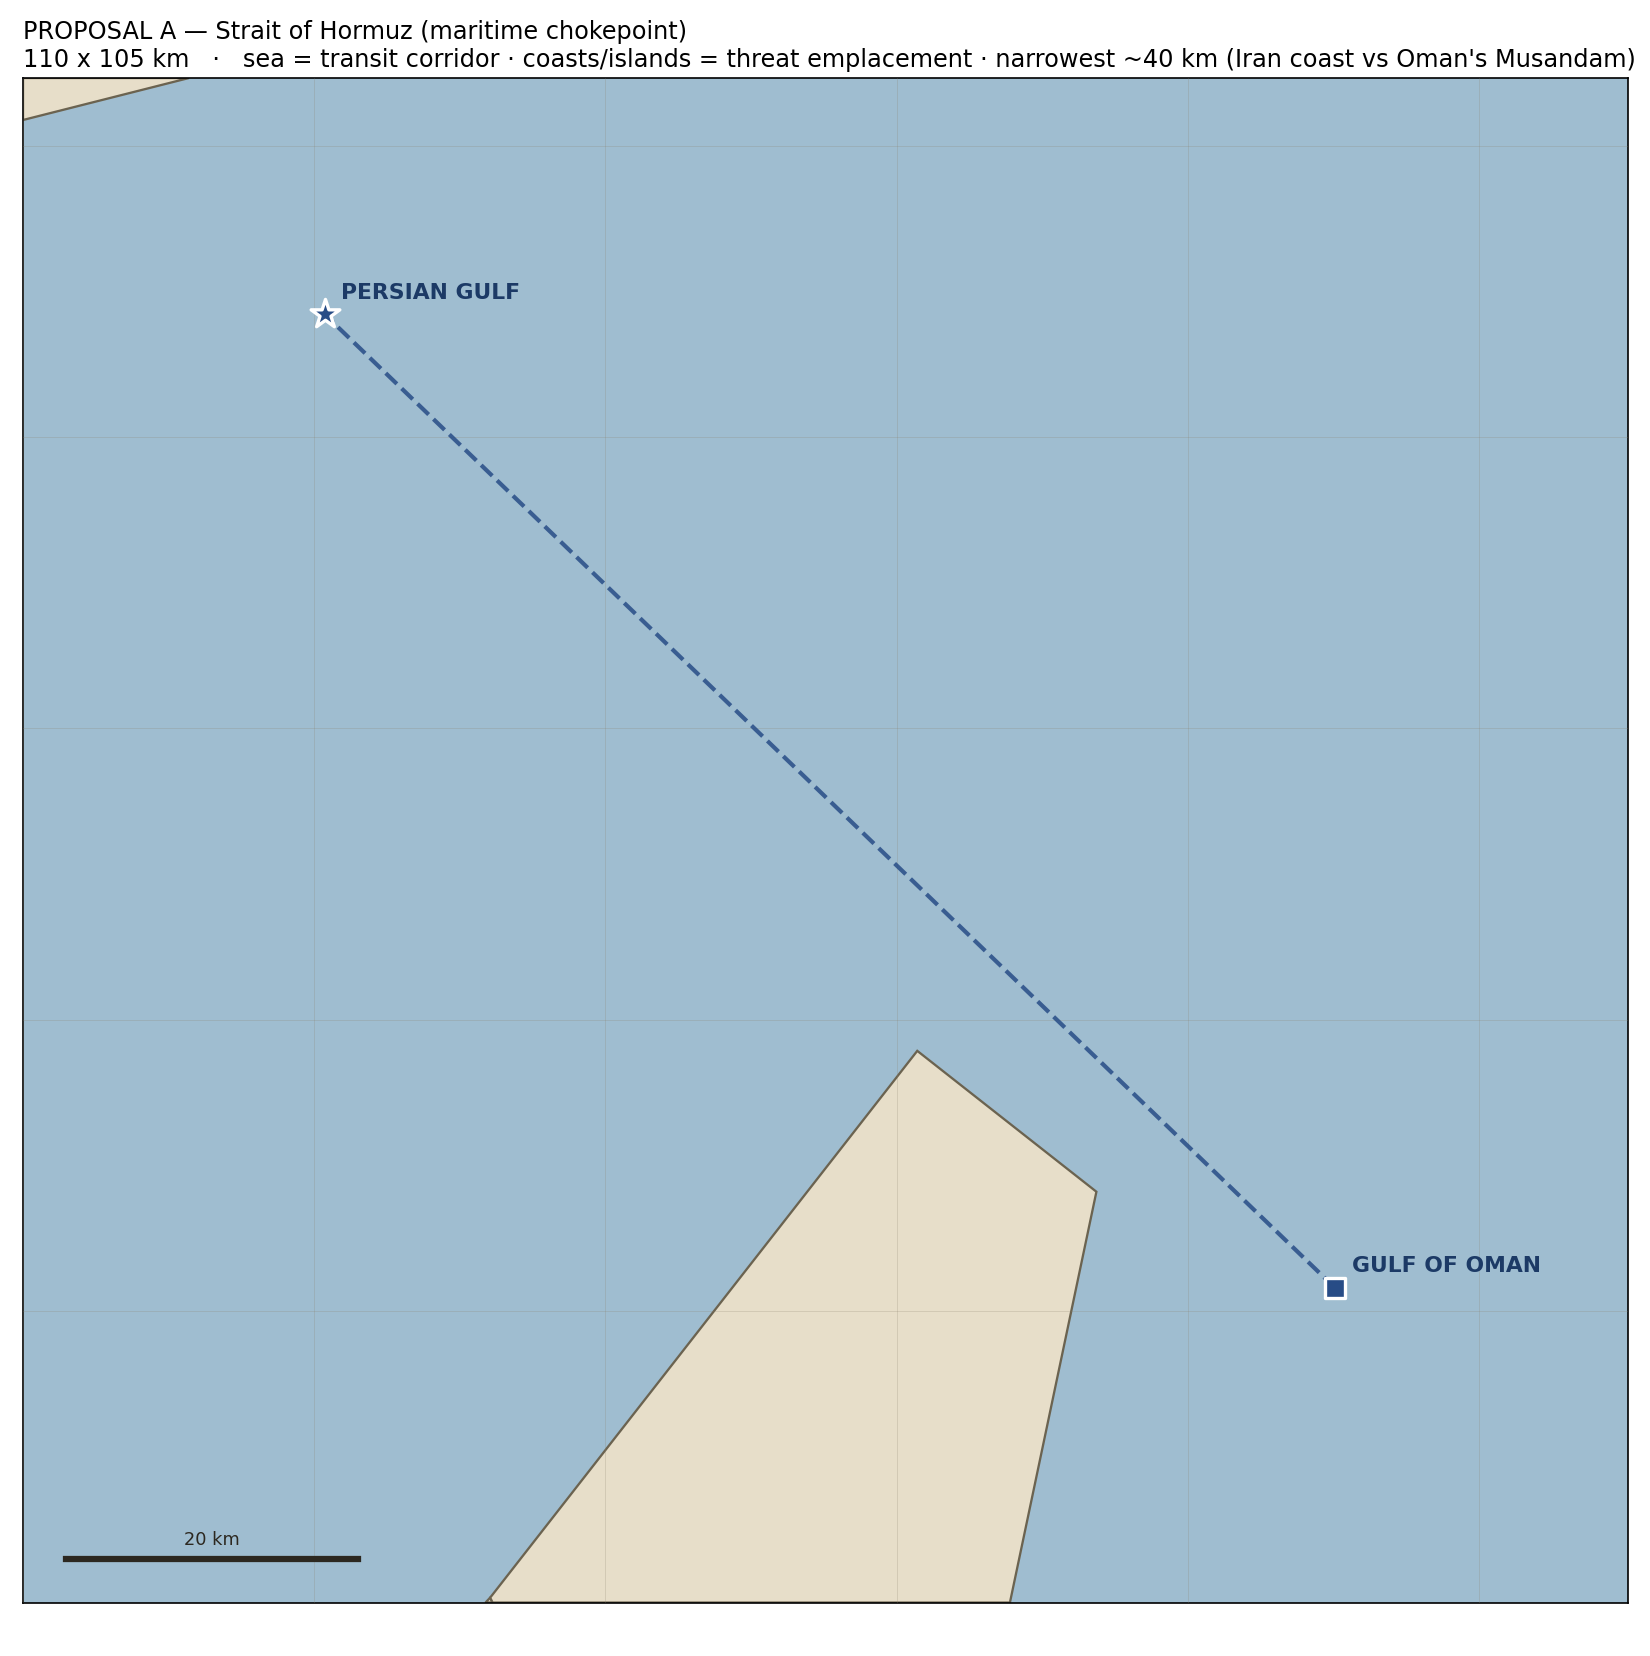
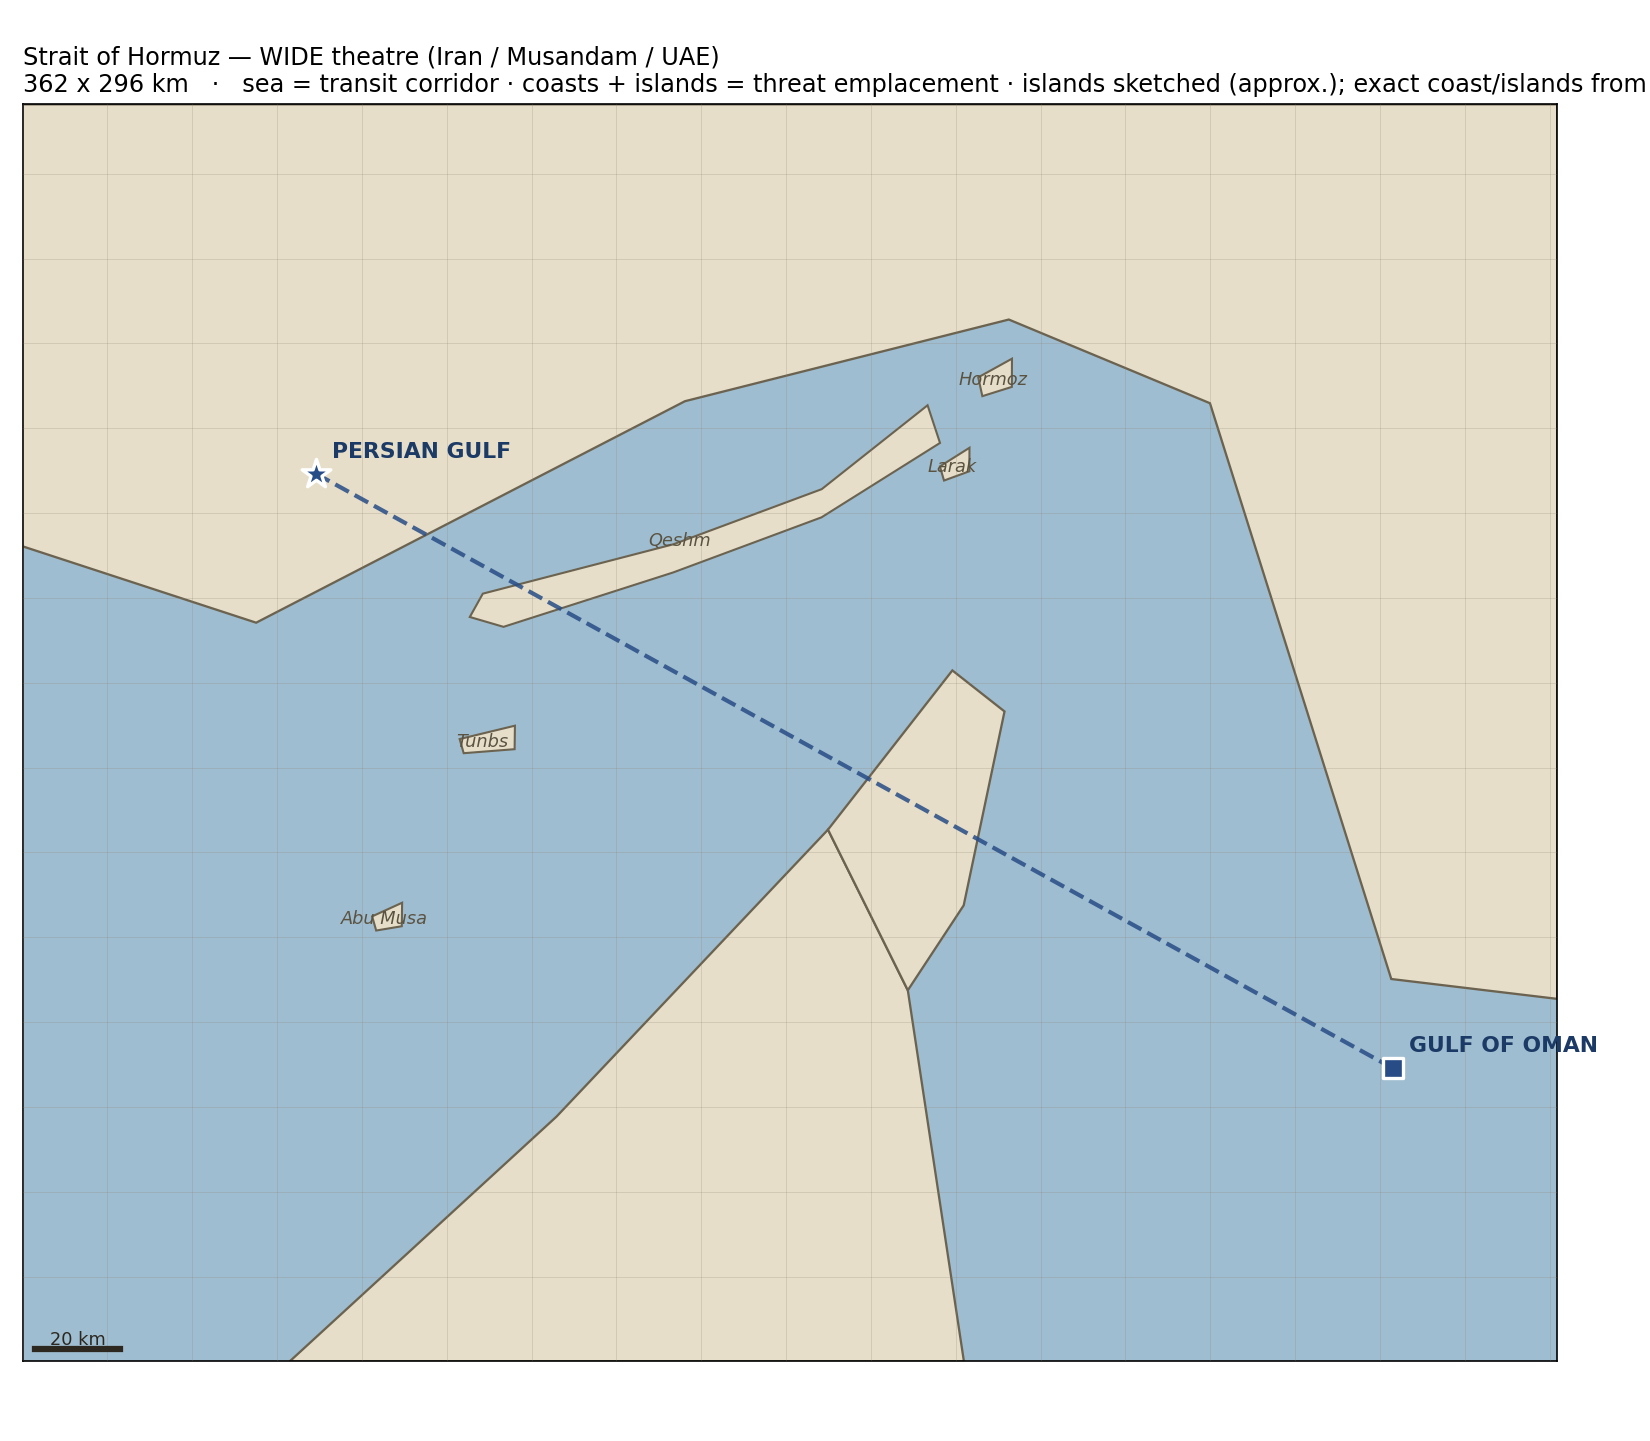
Theatre review v2: Hormuz widened to Kilian's requested area (362x296km: Iran/Qeshm, Musandam, UAE + strait islands sketched), Dnipro kept. Kaliningrad-fetch provenance found: Overpass works from here but is SLOW/intermittent (today's cache shows queries returned 94k elements then the link dropped t

diff --git a/scratch/render_review_schematic.py b/scratch/render_review_schematic.py
@@ -20,12 +20,24 @@ DNIPRO = [(35.02, 48.55), (35.05, 48.47), (35.12, 48.40), (35.08, 48.31), (34.98
           (35.02, 48.12), (35.09, 48.02), (35.12, 47.92), (35.09, 47.84), (35.14, 47.76)]
 
 SPECS = {
-    "hormuz": dict(bbox=(55.75, 26.05, 56.85, 27.00), epsg="EPSG:32640", maritime=True,
+    "hormuz": dict(bbox=(54.20, 24.90, 57.80, 27.60), epsg="EPSG:32640", maritime=True,
                    land=["Iran", "Oman", "United Arab Emirates"],
-                   base=("GULF OF OMAN", 56.65, 26.25), target=("PERSIAN GULF", 55.95, 26.85),
-                   title="PROPOSAL A — Strait of Hormuz (maritime chokepoint)",
-                   note="sea = transit corridor · coasts/islands = threat emplacement · "
-                        "narrowest ~40 km (Iran coast vs Oman's Musandam)"),
+                   base=("GULF OF OMAN", 57.40, 25.55), target=("PERSIAN GULF", 54.85, 26.80),
+                   title="Strait of Hormuz — WIDE theatre (Iran / Musandam / UAE)",
+                   note="sea = transit corridor · coasts + islands = threat emplacement · "
+                        "islands sketched (approx.); exact coast/islands from OSM at build",
+                   islands=[
+                       ("Qeshm", [(55.25, 26.55), (55.7, 26.66), (56.05, 26.78), (56.30, 26.96),
+                                  (56.33, 26.88), (56.05, 26.72), (55.7, 26.60), (55.3, 26.48),
+                                  (55.22, 26.50), (55.25, 26.55)]),
+                       ("Hormoz", [(56.42, 27.02), (56.50, 27.06), (56.50, 27.00), (56.43, 26.98),
+                                   (56.42, 27.02)]),
+                       ("Larak", [(56.33, 26.83), (56.40, 26.87), (56.40, 26.82), (56.34, 26.80),
+                                  (56.33, 26.83)]),
+                       ("Abu Musa", [(55.00, 25.86), (55.07, 25.89), (55.07, 25.84),
+                                     (55.01, 25.83), (55.00, 25.86)]),
+                       ("Tunbs", [(55.20, 26.24), (55.33, 26.27), (55.33, 26.22), (55.21, 26.21),
+                                  (55.20, 26.24)])]),
     "ukraine": dict(bbox=(34.80, 47.75, 35.45, 48.55), epsg="EPSG:32636", maritime=False,
                     land=["Ukraine"], river=DNIPRO,
                     base=("DNIPRO", 35.045, 48.465), target=("ZAPORIZHZHIA", 35.145, 47.840),
@@ -60,6 +72,13 @@ def render(name):
             ax.fill([(x - x0) / 1000 for x in xs], [(y - y0) / 1000 for y in ys],
                     color=COL["land"] if spec["maritime"] else "#ded4bd",
                     ec=COL["coast"], lw=1.1, zorder=2)
+    for lab, ring in spec.get("islands", []):             # sketched islands (maritime)
+        pts = [km_xy(lo, la) for lo, la in ring]
+        ax.fill([p[0] for p in pts], [p[1] for p in pts], color=COL["land"],
+                ec=COL["coast"], lw=1.0, zorder=3)
+        cx, cy = np.mean([p[0] for p in pts]), np.mean([p[1] for p in pts])
+        ax.annotate(lab, (cx, cy), ha="center", va="center", fontsize=8.5,
+                    fontstyle="italic", color="#5b5342", zorder=6)
     if not spec["maritime"]:                              # land theatre: draw the river
         pts = [km_xy(lo, la) for lo, la in spec["river"]]
         ax.plot([p[0] for p in pts], [p[1] for p in pts], color=COL["river"], lw=6, zorder=3,

diff --git a/scratch/fetch_review_theatre.py b/scratch/fetch_review_theatre.py
@@ -17,9 +17,9 @@ import numpy as np
 CORRIDORS = {
     # Strait of Hormuz core chokepoint: sea = highway, coasts/islands = threat emplacement.
     "hormuz": dict(
-        bbox=(55.75, 26.05, 56.85, 27.00), epsg="EPSG:32640", maritime=True,
-        base=("GULF OF OMAN", 56.65, 26.25), target=("PERSIAN GULF", 55.95, 26.85),
-        title="Strait of Hormuz — contested transit corridor"),
+        bbox=(54.20, 24.90, 57.80, 27.60), epsg="EPSG:32640", maritime=True,
+        base=("GULF OF OMAN", 57.40, 25.55), target=("PERSIAN GULF", 54.85, 26.80),
+        title="Strait of Hormuz — wide transit theatre (Iran / Musandam / UAE)"),
     # Dnipro river corridor Dnipro city <-> Zaporizhzhia: river + urban = strong structure.
     "ukraine": dict(
         bbox=(34.80, 47.75, 35.45, 48.55), epsg="EPSG:32636", maritime=False,
@@ -57,7 +57,7 @@ def main():
     spec = CORRIDORS[args.name]
     W, S, E, N = spec["bbox"]
     crs = spec["epsg"]
-    ox.settings.requests_timeout = 90
+    ox.settings.requests_timeout = 300
 
     corners = gpd.GeoSeries([Point(W, S), Point(E, N)], crs="EPSG:4326").to_crs(crs)
     x0, y0, x1, y1 = corners.iloc[0].x, corners.iloc[0].y, corners.iloc[1].x, corners.iloc[1].y
@@ -72,7 +72,7 @@ def main():
     tagset = TAGS_SEA if spec["maritime"] else TAGS_LAND
     layers = {}
     for cls, tags in tagset.items():
-        signal.alarm(75)                              # hard cap per layer; skip if it hangs
+        signal.alarm(480)                             # generous cap (queries are slow, not failing)
         try:
             g = ox.features_from_bbox((W, S, E, N), tags=tags).to_crs(crs)
             layers[cls] = g[~g.geometry.is_empty]
